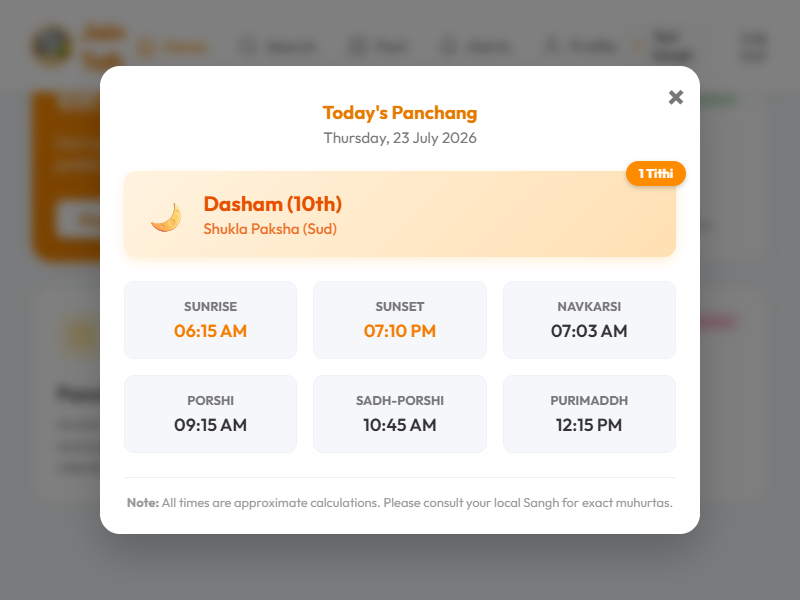
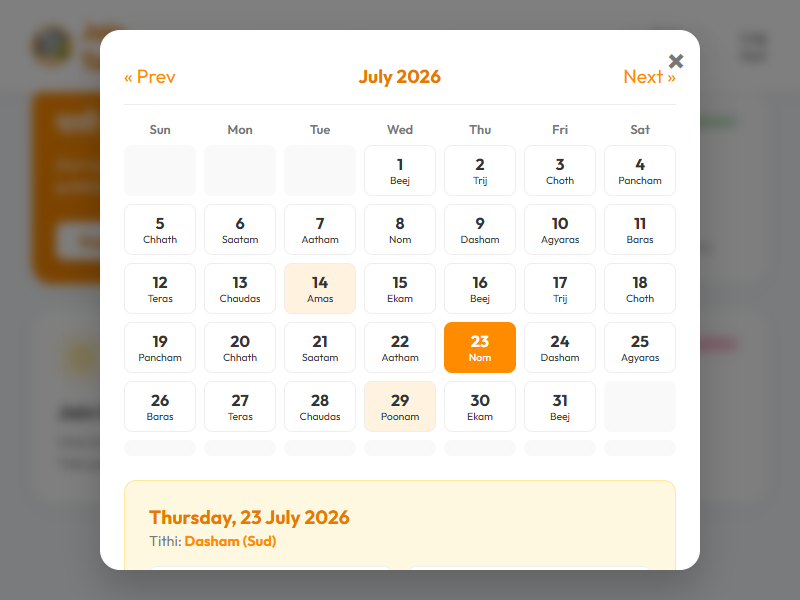
Implement full monthly interactive Jain calendar grid with Tithi details

diff --git a/public/panchang.js b/public/panchang.js
@@ -1,65 +1,49 @@
 // Jain Panchang Logic and UI Renderer
 
 const tithiNames = [
-    "Ekam (1st)", "Beej (2nd)", "Trij (3rd)", "Choth (4th)", "Pancham (5th)", 
-    "Chhath (6th)", "Saatam (7th)", "Aatham (8th)", "Nom (9th)", "Dasham (10th)", 
-    "Agyaras (11th)", "Baras (12th)", "Teras (13th)", "Chaudas (14th)", "Poonam (15th)",
-    "Ekam (1st)", "Beej (2nd)", "Trij (3rd)", "Choth (4th)", "Pancham (5th)", 
-    "Chhath (6th)", "Saatam (7th)", "Aatham (8th)", "Nom (9th)", "Dasham (10th)", 
-    "Agyaras (11th)", "Baras (12th)", "Teras (13th)", "Chaudas (14th)", "Amas (New Moon)"
+    "Ekam", "Beej", "Trij", "Choth", "Pancham", 
+    "Chhath", "Saatam", "Aatham", "Nom", "Dasham", 
+    "Agyaras", "Baras", "Teras", "Chaudas", "Poonam",
+    "Ekam", "Beej", "Trij", "Choth", "Pancham", 
+    "Chhath", "Saatam", "Aatham", "Nom", "Dasham", 
+    "Agyaras", "Baras", "Teras", "Chaudas", "Amas"
 ];
 
 // Helper to calculate approximate Tithi based on Moon Phase
 function calculateTithi(date) {
-    // Known New Moon: June 14, 2026, 12:44 UTC
     const knownNewMoon = new Date(Date.UTC(2026, 5, 14, 12, 44, 0));
-    const synodicMonth = 29.530588 * 24 * 60 * 60 * 1000; // in milliseconds
-    
+    const synodicMonth = 29.530588 * 24 * 60 * 60 * 1000;
     const diff = date.getTime() - knownNewMoon.getTime();
     const phase = (diff % synodicMonth) / synodicMonth;
-    
-    // Tithi length is exactly 1/30th of a synodic month
     let tithiIndex = Math.floor(phase * 30);
-    
-    // Safety clamp
     if(tithiIndex < 0) tithiIndex += 30;
     if(tithiIndex > 29) tithiIndex = 29;
     
     const isShukla = tithiIndex < 15;
-    const paksha = isShukla ? "Shukla Paksha (Sud)" : "Krishna Paksha (Vad)";
+    const paksha = isShukla ? "Sud" : "Vad";
     
     return {
         name: tithiNames[tithiIndex],
+        fullName: tithiNames[tithiIndex] + " (" + paksha + ")",
         paksha: paksha,
         index: tithiIndex
     };
 }
 
-// Format time as HH:MM AM/PM
+// Format time
 function formatTime(date) {
     return date.toLocaleTimeString([], { hour: '2-digit', minute: '2-digit' });
 }
 
-// Generate Jain Timings based on a generic Sunrise/Sunset (approx 6:00 AM to 7:00 PM for summer)
+// Generate Jain Timings based on a generic Sunrise/Sunset
 function generateTimings(date) {
-    // Defaulting to approx summer timings. 
-    // In a production app, we would use geolocation and a library like suncalc.
     const sunrise = new Date(date);
     sunrise.setHours(6, 15, 0);
-    
     const sunset = new Date(date);
     sunset.setHours(19, 10, 0);
-
-    // Navkarsi = 48 minutes after Sunrise
     const navkarsi = new Date(sunrise.getTime() + 48 * 60000);
-    
-    // Porshi = 3 hours after Sunrise
     const porshi = new Date(sunrise.getTime() + 180 * 60000);
-    
-    // Sadh-Porshi = 4.5 hours after Sunrise
     const sadhPorshi = new Date(sunrise.getTime() + 270 * 60000);
-    
-    // Purimaddh = 6 hours after Sunrise
     const purimaddh = new Date(sunrise.getTime() + 360 * 60000);
 
     return {
@@ -72,73 +56,143 @@ function generateTimings(date) {
     };
 }
 
-// Render the Panchang UI
-function renderPanchang() {
+let selectedDate = new Date();
+
+function renderCalendar(year, month) {
     const container = document.getElementById('panchang-content-container');
     if(!container) return;
 
-    const today = new Date();
-    const tithi = calculateTithi(today);
-    const timings = generateTimings(today);
+    const firstDay = new Date(year, month, 1);
+    const lastDay = new Date(year, month + 1, 0);
+    const startingDay = firstDay.getDay(); // 0 = Sunday
+    const totalDays = lastDay.getDate();
     
-    const options = { weekday: 'long', year: 'numeric', month: 'long', day: 'numeric' };
-    const dateString = today.toLocaleDateString('en-IN', options);
+    const monthNames = ["January", "February", "March", "April", "May", "June", "July", "August", "September", "October", "November", "December"];
+    const monthName = monthNames[month];
 
-    const html = `
-        <div class="panchang-header">
-            <h3>Today's Panchang</h3>
-            <p>${dateString}</p>
+    let html = `
+        <div class="calendar-header" style="display: flex; justify-content: space-between; align-items: center; margin-bottom: 1rem; padding-bottom: 1rem; border-bottom: 1px solid var(--border-color);">
+            <button id="prev-month" style="background: none; border: none; cursor: pointer; color: var(--primary-color); font-size: 1.2rem;">&laquo; Prev</button>
+            <h3 style="margin: 0; color: var(--primary-dark);">${monthName} ${year}</h3>
+            <button id="next-month" style="background: none; border: none; cursor: pointer; color: var(--primary-color); font-size: 1.2rem;">Next &raquo;</button>
         </div>
-        
-        <div class="panchang-tithi-card">
-            <div class="tithi-icon">🌙</div>
-            <div class="tithi-info">
-                <h4>${tithi.name}</h4>
-                <p>${tithi.paksha}</p>
-            </div>
-            <div class="tithi-badge">1 Tithi</div>
-        </div>
+        <div class="calendar-grid" style="display: grid; grid-template-columns: repeat(7, 1fr); gap: 0.5rem; text-align: center; margin-bottom: 1.5rem;">
+            <div style="font-weight: 600; font-size: 0.8rem; color: var(--text-light);">Sun</div>
+            <div style="font-weight: 600; font-size: 0.8rem; color: var(--text-light);">Mon</div>
+            <div style="font-weight: 600; font-size: 0.8rem; color: var(--text-light);">Tue</div>
+            <div style="font-weight: 600; font-size: 0.8rem; color: var(--text-light);">Wed</div>
+            <div style="font-weight: 600; font-size: 0.8rem; color: var(--text-light);">Thu</div>
+            <div style="font-weight: 600; font-size: 0.8rem; color: var(--text-light);">Fri</div>
+            <div style="font-weight: 600; font-size: 0.8rem; color: var(--text-light);">Sat</div>
+    `;
 
-        <div class="panchang-grid">
-            <div class="panchang-item">
-                <span class="p-label">Sunrise</span>
-                <span class="p-value highlight-sun">${timings.sunrise}</span>
+    let date = 1;
+    for (let i = 0; i < 42; i++) {
+        if (i < startingDay || date > totalDays) {
+            html += `<div style="padding: 0.5rem; background: #f9f9f9; border-radius: 8px;"></div>`;
+        } else {
+            let currentDate = new Date(year, month, date);
+            let tithi = calculateTithi(currentDate);
+            let isSelected = currentDate.toDateString() === selectedDate.toDateString();
+            
+            let bg = isSelected ? 'var(--primary-color)' : (tithi.index === 14 || tithi.index === 29 ? '#FFF3E0' : 'white');
+            let color = isSelected ? 'white' : 'var(--text-dark)';
+            let border = isSelected ? 'none' : '1px solid var(--border-color)';
+            
+            html += `
+                <div class="cal-day" data-date="${date}" style="padding: 0.5rem; background: ${bg}; color: ${color}; border: ${border}; border-radius: 8px; cursor: pointer; display: flex; flex-direction: column; align-items: center; justify-content: center; transition: transform 0.2s;">
+                    <div style="font-weight: 700; font-size: 1rem;">${date}</div>
+                    <div style="font-size: 0.65rem; white-space: nowrap; overflow: hidden; text-overflow: ellipsis; max-width: 100%;">${tithi.name}</div>
+                </div>
+            `;
+            date++;
+        }
+    }
+
+    html += `</div>`;
+    
+    // Day Details Section
+    let sDate = selectedDate;
+    let sTithi = calculateTithi(sDate);
+    let sTimings = generateTimings(sDate);
+    const dateString = sDate.toLocaleDateString('en-IN', { weekday: 'long', year: 'numeric', month: 'long', day: 'numeric' });
+    
+    html += `
+        <div style="background: #FFF8E1; padding: 1.5rem; border-radius: 12px; border: 1px solid rgba(255,193,7,0.3);">
+            <div style="display: flex; justify-content: space-between; align-items: center; margin-bottom: 1rem;">
+                <div>
+                    <h4 style="margin: 0; color: var(--primary-dark); font-size: 1.2rem;">${dateString}</h4>
+                    <p style="margin: 0.2rem 0 0 0; color: var(--text-light); font-size: 0.9rem;">Tithi: <strong style="color: var(--primary-color);">${sTithi.fullName}</strong></p>
+                </div>
             </div>
-            <div class="panchang-item">
-                <span class="p-label">Sunset</span>
-                <span class="p-value highlight-sun">${timings.sunset}</span>
+            
+            <div class="panchang-grid" style="display: grid; grid-template-columns: 1fr 1fr; gap: 1rem;">
+                <div class="panchang-item" style="background: white; padding: 0.8rem; border-radius: 8px; display: flex; justify-content: space-between;">
+                    <span class="p-label" style="font-weight: 500; font-size: 0.85rem; color: var(--text-light);">Sunrise</span>
+                    <span class="p-value highlight-sun" style="font-weight: 700; color: #E65100;">${sTimings.sunrise}</span>
+                </div>
+                <div class="panchang-item" style="background: white; padding: 0.8rem; border-radius: 8px; display: flex; justify-content: space-between;">
+                    <span class="p-label" style="font-weight: 500; font-size: 0.85rem; color: var(--text-light);">Sunset</span>
+                    <span class="p-value highlight-sun" style="font-weight: 700; color: #E65100;">${sTimings.sunset}</span>
+                </div>
+                <div class="panchang-item" style="background: white; padding: 0.8rem; border-radius: 8px; display: flex; justify-content: space-between;">
+                    <span class="p-label" style="font-weight: 500; font-size: 0.85rem; color: var(--text-light);">Navkarsi</span>
+                    <span class="p-value" style="font-weight: 700;">${sTimings.navkarsi}</span>
+                </div>
+                <div class="panchang-item" style="background: white; padding: 0.8rem; border-radius: 8px; display: flex; justify-content: space-between;">
+                    <span class="p-label" style="font-weight: 500; font-size: 0.85rem; color: var(--text-light);">Porshi</span>
+                    <span class="p-value" style="font-weight: 700;">${sTimings.porshi}</span>
+                </div>
+                <div class="panchang-item" style="background: white; padding: 0.8rem; border-radius: 8px; display: flex; justify-content: space-between;">
+                    <span class="p-label" style="font-weight: 500; font-size: 0.85rem; color: var(--text-light);">Sadh-Porshi</span>
+                    <span class="p-value" style="font-weight: 700;">${sTimings.sadhPorshi}</span>
+                </div>
+                <div class="panchang-item" style="background: white; padding: 0.8rem; border-radius: 8px; display: flex; justify-content: space-between;">
+                    <span class="p-label" style="font-weight: 500; font-size: 0.85rem; color: var(--text-light);">Purimaddh</span>
+                    <span class="p-value" style="font-weight: 700;">${sTimings.purimaddh}</span>
+                </div>
             </div>
-            <div class="panchang-item">
-                <span class="p-label">Navkarsi</span>
-                <span class="p-value">${timings.navkarsi}</span>
-            </div>
-            <div class="panchang-item">
-                <span class="p-label">Porshi</span>
-                <span class="p-value">${timings.porshi}</span>
-            </div>
-            <div class="panchang-item">
-                <span class="p-label">Sadh-Porshi</span>
-                <span class="p-value">${timings.sadhPorshi}</span>
-            </div>
-            <div class="panchang-item">
-                <span class="p-label">Purimaddh</span>
-                <span class="p-value">${timings.purimaddh}</span>
-            </div>
-        </div>
-        
-        <div class="panchang-footer">
-            <p><strong>Note:</strong> All times are approximate calculations. Please consult your local Sangh for exact muhurtas.</p>
+            <p style="font-size: 0.75rem; text-align: center; color: var(--text-light); margin-top: 1rem; margin-bottom: 0;"><strong>Note:</strong> Timings are approximate standard calculations.</p>
         </div>
     `;
-    
+
     container.innerHTML = html;
+
+    // Attach events
+    document.getElementById('prev-month').onclick = () => {
+        let currentMonthDate = new Date(year, month - 1, 1);
+        renderCalendar(currentMonthDate.getFullYear(), currentMonthDate.getMonth());
+    };
+    document.getElementById('next-month').onclick = () => {
+        let currentMonthDate = new Date(year, month + 1, 1);
+        renderCalendar(currentMonthDate.getFullYear(), currentMonthDate.getMonth());
+    };
+
+    const days = document.querySelectorAll('.cal-day');
+    days.forEach(day => {
+        day.onclick = (e) => {
+            const dateNum = parseInt(e.currentTarget.getAttribute('data-date'));
+            selectedDate = new Date(year, month, dateNum);
+            renderCalendar(year, month);
+        };
+    });
 }
 
 // Initialize when DOM is ready
 document.addEventListener('DOMContentLoaded', () => {
-    // Only render if the container exists (so we don't error on other pages)
+    
+    // Update card display
+    const cardTithiDisplay = document.getElementById('card-tithi-display');
+    const cardDateDisplay = document.getElementById('card-date-display');
+    if (cardTithiDisplay && cardDateDisplay) {
+        const today = new Date();
+        const tithi = calculateTithi(today);
+        cardTithiDisplay.textContent = tithi.fullName;
+        cardDateDisplay.textContent = today.toLocaleDateString('en-IN', { weekday: 'short', month: 'short', day: 'numeric' });
+    }
+
     if(document.getElementById('panchang-content-container')) {
-        renderPanchang();
+        renderCalendar(selectedDate.getFullYear(), selectedDate.getMonth());
         
         // Add robust event listeners for opening and closing the modal
         const openBtn = document.getElementById('open-panchang-btn');
@@ -150,6 +204,9 @@ document.addEventListener('DOMContentLoaded', () => {
                 e.preventDefault();
                 modal.classList.add('active');
                 modal.style.display = 'flex';
+                // Render fresh on open
+                selectedDate = new Date();
+                renderCalendar(selectedDate.getFullYear(), selectedDate.getMonth());
             });
         }
         

diff --git a/public/home.html b/public/home.html
@@ -557,11 +557,17 @@
 
                 <!-- 3. Panchang -->
                 <a href="#" id="open-panchang-btn" class="feature-card">
-                    <div class="card-icon" style="background: #FFF8E1; color: #FFC107;">
-                        <svg width="24" height="24" viewBox="0 0 24 24" fill="none" stroke="currentColor" stroke-width="2"><circle cx="12" cy="12" r="10"></circle><polyline points="12 6 12 12 16 14"></polyline></svg>
+                    <div style="display: flex; justify-content: space-between; align-items: flex-start; margin-bottom: 1rem;">
+                        <div class="card-icon" style="background: #FFF8E1; color: #FFC107; margin-bottom: 0;">
+                            <svg width="24" height="24" viewBox="0 0 24 24" fill="none" stroke="currentColor" stroke-width="2"><circle cx="12" cy="12" r="10"></circle><polyline points="12 6 12 12 16 14"></polyline></svg>
+                        </div>
+                        <div style="text-align: right;">
+                            <span class="card-tag" style="position: static; display: inline-block; background: #FFF8E1; color: #FFC107; font-size: 0.8rem; margin-bottom: 0.2rem;" id="card-tithi-display">Loading...</span>
+                            <div id="card-date-display" style="font-size: 0.75rem; color: var(--text-light); font-weight: 500;"></div>
+                        </div>
                     </div>
-                    <div class="card-title">Panchang</div>
-                    <p class="card-desc">Access daily Tithi (1 Tithi format), Choghadiya, and auspicious timings according to the Jain calendar.</p>
+                    <div class="card-title">Jain Calendar & Muhurat</div>
+                    <p class="card-desc">Click to view the full monthly calendar with daily Tithi and auspicious timings.</p>
                 </a>
 
                 <!-- 4. Reels Placeholder -->